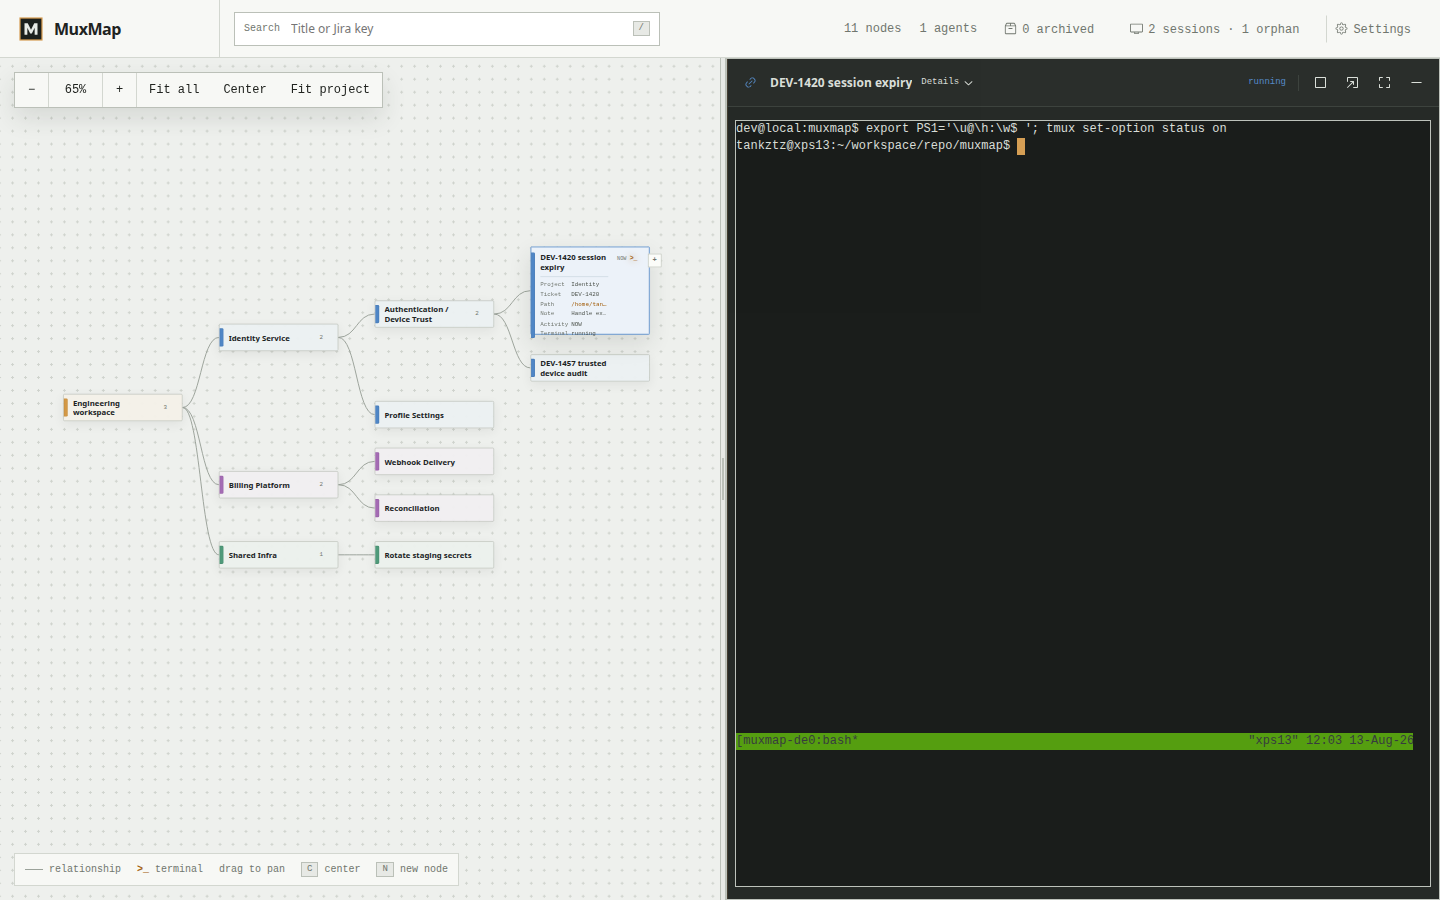
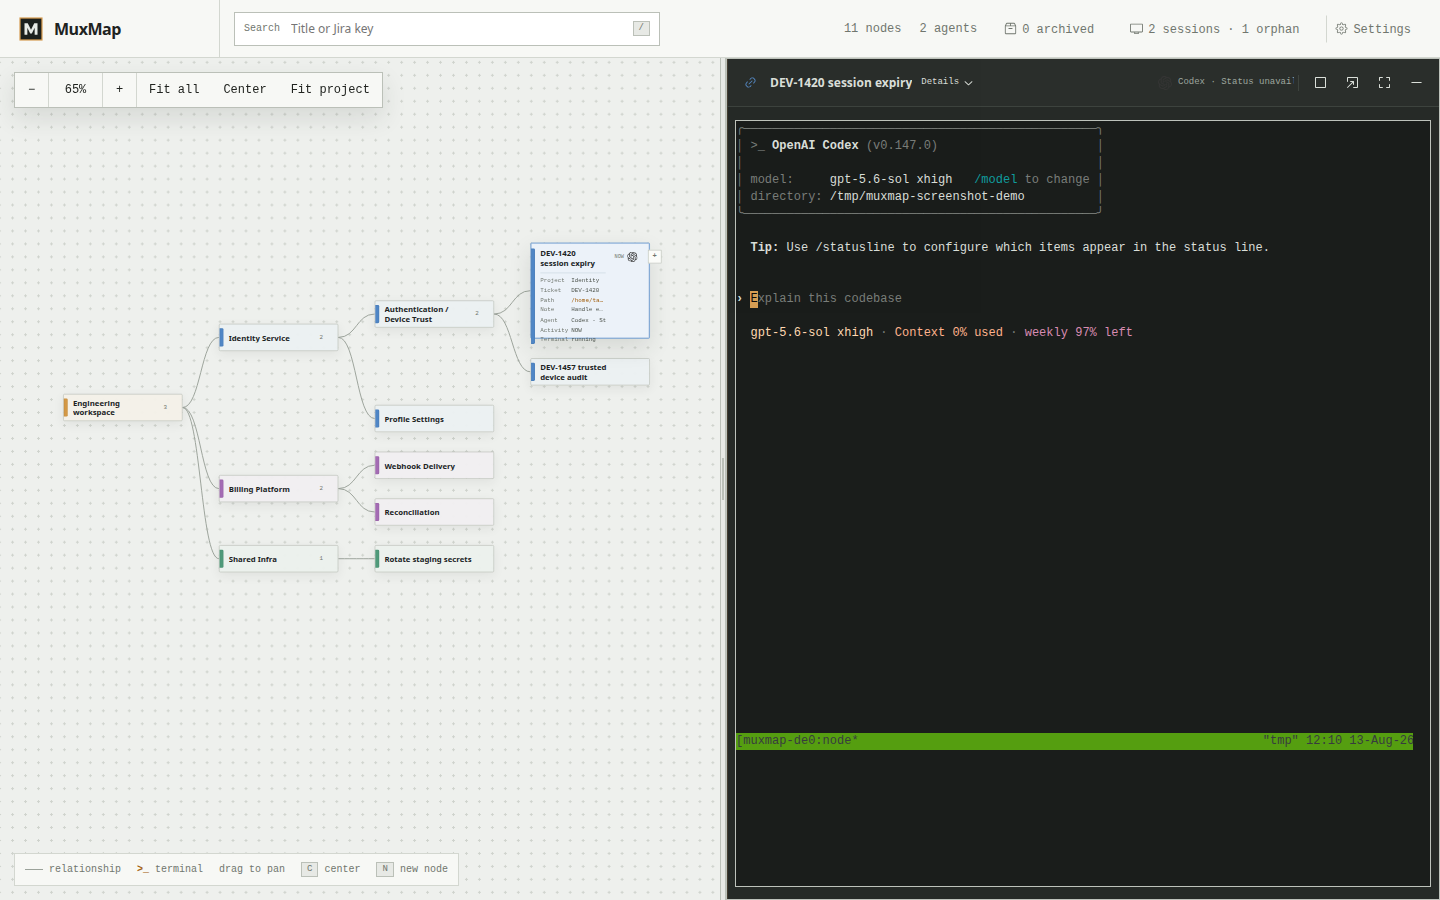
docs: show codex in main screenshot

diff --git a/docs/SCREENSHOTS.md b/docs/SCREENSHOTS.md
@@ -2,9 +2,9 @@
 
 These screenshots show the main MuxMap flows: organizing work in the map, opening the right terminal quickly, managing sessions, and using the mobile layout.
 
-## Main workflow: map on the left, terminal on the right
+## Main workflow: map on the left, Codex on the right
 
-The primary workflow is a split workspace. The mindmap keeps project context visible while the selected node owns the terminal on the right.
+The primary workflow is a split workspace. The mindmap keeps project context visible while the selected node owns a persistent terminal running Codex on the right.
 
 ![MuxMap mindmap with docked terminal](assets/muxmap-docked-terminal.png)
 
